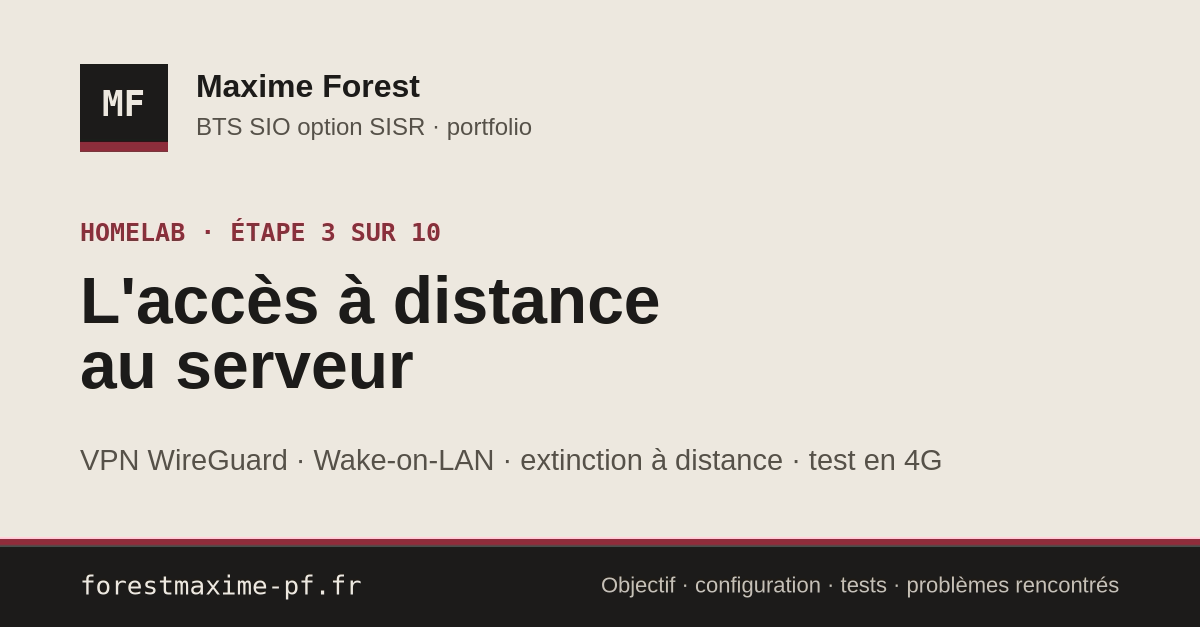
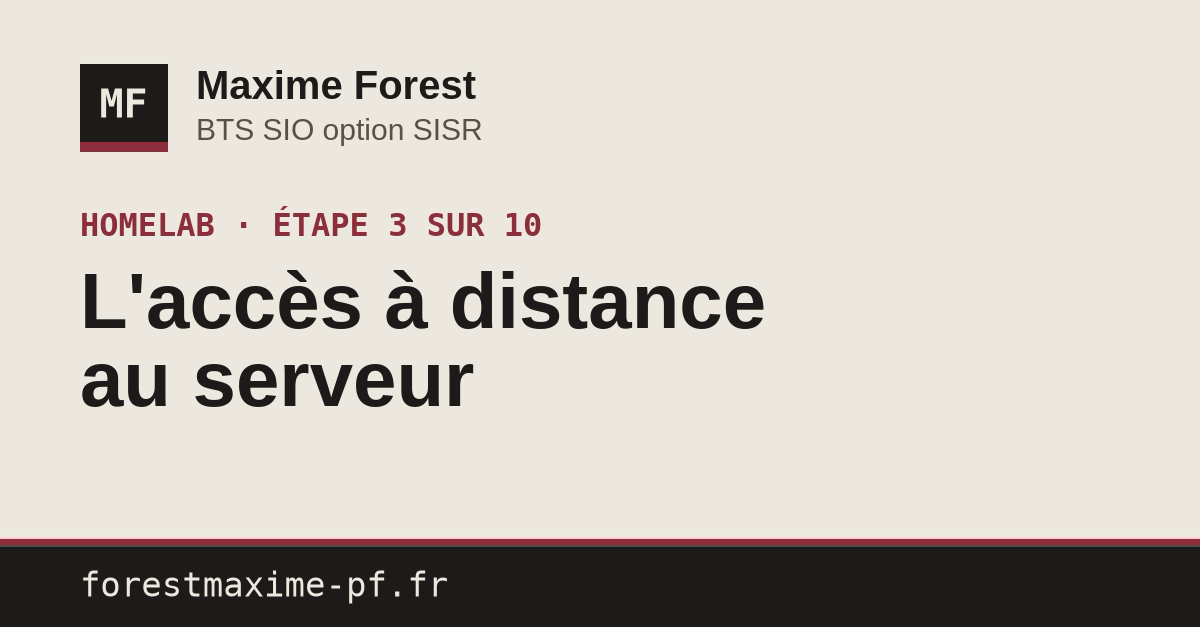
Images d'aperçu LinkedIn du homelab : texte agrandi pour rester lisible dans le fil, lignes trop petites retirées

diff --git a/projets/homelab-etape-4.html b/projets/homelab-etape-4.html
@@ -16,7 +16,7 @@
 <meta property="og:url" content="https://forestmaxime-pf.fr/projets/homelab-etape-4.html">
 <meta property="og:title" content="Homelab, étape 4 : l'audit DNS et courrier d'un nom de domaine | Maxime Forest">
 <meta property="og:description" content="Homelab, étape 4 : un script Python qui vérifie MX, SPF, DMARC, DKIM et DNSSEC d'un nom de domaine, avec des règles de couleur écrites et testées, et un résultat en JSON.">
-<meta property="og:image" content="https://forestmaxime-pf.fr/projets/img/apercu-homelab-etape-4.png">
+<meta property="og:image" content="https://forestmaxime-pf.fr/projets/img/apercu-homelab-etape-4.png?v=2">
 <meta property="og:image:width" content="1200">
 <meta property="og:image:height" content="627">
 <meta property="og:image:alt" content="Homelab, étape 4 : l'audit DNS et courrier d'un nom de domaine, sur le portfolio de Maxime Forest">

diff --git a/projets/homelab-etape-5.html b/projets/homelab-etape-5.html
@@ -16,7 +16,7 @@
 <meta property="og:url" content="https://forestmaxime-pf.fr/projets/homelab-etape-5.html">
 <meta property="og:title" content="Homelab, étape 5 : l'audit web d'un site | Maxime Forest">
 <meta property="og:description" content="Homelab, étape 5 : un script Python qui vérifie le HTTPS, les en-têtes de sécurité, l'expiration du nom de domaine et la disponibilité d'un site, en ne lisant que ce que voit un visiteur.">
-<meta property="og:image" content="https://forestmaxime-pf.fr/projets/img/apercu-homelab-etape-5.png">
+<meta property="og:image" content="https://forestmaxime-pf.fr/projets/img/apercu-homelab-etape-5.png?v=2">
 <meta property="og:image:width" content="1200">
 <meta property="og:image:height" content="627">
 <meta property="og:image:alt" content="Homelab, étape 5 : l'audit web d'un site, sur le portfolio de Maxime Forest">

diff --git a/projets/homelab-etape-3.html b/projets/homelab-etape-3.html
@@ -16,7 +16,7 @@
 <meta property="og:url" content="https://forestmaxime-pf.fr/projets/homelab-etape-3.html">
 <meta property="og:title" content="Homelab, étape 3 : l'accès à distance au serveur | Maxime Forest">
 <meta property="og:description" content="Homelab, étape 3 : VPN WireGuard de la Freebox, Wake-on-LAN et extinction à distance, pour travailler sur le serveur depuis la 4G sans l'exposer sur internet.">
-<meta property="og:image" content="https://forestmaxime-pf.fr/projets/img/apercu-homelab-etape-3.png">
+<meta property="og:image" content="https://forestmaxime-pf.fr/projets/img/apercu-homelab-etape-3.png?v=2">
 <meta property="og:image:width" content="1200">
 <meta property="og:image:height" content="627">
 <meta property="og:image:alt" content="Homelab, étape 3 : l'accès à distance au serveur, sur le portfolio de Maxime Forest">

diff --git a/projets/homelab-etape-1.html b/projets/homelab-etape-1.html
@@ -16,7 +16,7 @@
 <meta property="og:url" content="https://forestmaxime-pf.fr/projets/homelab-etape-1.html">
 <meta property="og:title" content="Homelab, étape 1 : installer Ubuntu Server | Maxime Forest">
 <meta property="og:description" content="Homelab, étape 1 : un ancien PC de jeu transformé en serveur Ubuntu Server 24.04, sans écran, administré à distance en SSH par clé seulement.">
-<meta property="og:image" content="https://forestmaxime-pf.fr/projets/img/apercu-homelab-etape-1.png">
+<meta property="og:image" content="https://forestmaxime-pf.fr/projets/img/apercu-homelab-etape-1.png?v=2">
 <meta property="og:image:width" content="1200">
 <meta property="og:image:height" content="627">
 <meta property="og:image:alt" content="Homelab, étape 1 : installer un serveur Ubuntu sur un ancien PC, sur le portfolio de Maxime Forest">

diff --git a/projets/homelab-etape-2.html b/projets/homelab-etape-2.html
@@ -16,7 +16,7 @@
 <meta property="og:url" content="https://forestmaxime-pf.fr/projets/homelab-etape-2.html">
 <meta property="og:title" content="Homelab, étape 2 : le socle logiciel | Maxime Forest">
 <meta property="og:description" content="Homelab, étape 2 : pare-feu ufw, mises à jour de sécurité automatiques, Docker, dépôt Git privé avec clé de déploiement et Claude Code sur le serveur Ubuntu.">
-<meta property="og:image" content="https://forestmaxime-pf.fr/projets/img/apercu-homelab-etape-2.png">
+<meta property="og:image" content="https://forestmaxime-pf.fr/projets/img/apercu-homelab-etape-2.png?v=2">
 <meta property="og:image:width" content="1200">
 <meta property="og:image:height" content="627">
 <meta property="og:image:alt" content="Homelab, étape 2 : le socle logiciel du serveur, sur le portfolio de Maxime Forest">

diff --git a/projets/homelab.html b/projets/homelab.html
@@ -16,7 +16,7 @@
 <meta property="og:url" content="https://forestmaxime-pf.fr/projets/homelab.html">
 <meta property="og:title" content="Homelab : un ancien PC devenu serveur | Maxime Forest">
 <meta property="og:description" content="Projet personnel en cours : un ancien PC de jeu transformé en serveur Ubuntu, pour construire un outil d&#x27;audit et de surveillance des sites de mes clients. Publié étape par étape.">
-<meta property="og:image" content="https://forestmaxime-pf.fr/projets/img/apercu-homelab.png">
+<meta property="og:image" content="https://forestmaxime-pf.fr/projets/img/apercu-homelab.png?v=2">
 <meta property="og:image:width" content="1200">
 <meta property="og:image:height" content="627">
 <meta property="og:image:alt" content="Homelab : un ancien PC de jeu devenu serveur, sur le portfolio de Maxime Forest">

diff --git a/_outils/apercu.py b/_outils/apercu.py
@@ -9,7 +9,7 @@ MONO='/usr/share/fonts/truetype/dejavu/DejaVuSansMono-Bold.ttf'
 MONOR='/usr/share/fonts/truetype/dejavu/DejaVuSansMono.ttf'
 pages={
  'homelab':("PROJET PERSONNEL · HOMELAB",["Un ancien PC de jeu","devenu serveur"],"Audit et surveillance des sites de mes clients, étape par étape"),
- 'homelab-etape-1':("HOMELAB · ÉTAPE 1 SUR 10",["Installer un serveur Ubuntu","sur un ancien PC"],"Ubuntu Server 24.04 · SSH par clé seulement · adresse fixe"),
+ 'homelab-etape-1':("HOMELAB · ÉTAPE 1 SUR 10",["Installer un serveur","Ubuntu sur un ancien PC"],"Ubuntu Server 24.04 · SSH par clé seulement · adresse fixe"),
  'homelab-etape-2':("HOMELAB · ÉTAPE 2 SUR 10",["Le socle logiciel","du serveur"],"Pare-feu ufw · mises à jour automatiques · Docker · Git privé"),
  'homelab-etape-3':("HOMELAB · ÉTAPE 3 SUR 10",["L'accès à distance","au serveur"],"VPN WireGuard · Wake-on-LAN · extinction à distance · test en 4G"),
  'homelab-etape-4':("HOMELAB · ÉTAPE 4 SUR 10",["L'audit DNS et courrier","d'un nom de domaine"],"MX · SPF · DMARC · DKIM · DNSSEC · 30 tests automatiques"),
@@ -20,16 +20,14 @@ def t(name,txt):
 for slug,(kick,title,sub) in pages.items():
     f=[ "drawbox=x=80:y=64:w=88:h=88:color=0x1f1d1b:t=fill",
         "drawbox=x=80:y=142:w=88:h=10:color=0x8e2f3c:t=fill",
-        f"drawtext=fontfile={MONO}:textfile={t(slug+'-mf','MF')}:fontsize=36:fontcolor=0xefe9df:x=124-text_w/2:y=103-text_h/2",
-        f"drawtext=fontfile={BOLD}:textfile={t(slug+'-nom','Maxime Forest')}:fontsize=32:fontcolor=0x1f1d1b:x=196:y=74",
-        f"drawtext=fontfile={SANS}:textfile={t(slug+'-sous','BTS SIO option SISR · portfolio')}:fontsize=24:fontcolor=0x57514b:x=196:y=118",
-        f"drawtext=fontfile={MONO}:textfile={t(slug+'-k',kick)}:fontsize=25:fontcolor=0x8e2f3c:x=80:y=218"]
-    y=274
+        f"drawtext=fontfile={MONO}:textfile={t(slug+'-mf','MF')}:fontsize=40:fontcolor=0xefe9df:x=124-text_w/2:y=103-text_h/2",
+        f"drawtext=fontfile={BOLD}:textfile={t(slug+'-nom','Maxime Forest')}:fontsize=40:fontcolor=0x1f1d1b:x=196:y=70",
+        f"drawtext=fontfile={SANS}:textfile={t(slug+'-sous','BTS SIO option SISR')}:fontsize=30:fontcolor=0x57514b:x=196:y=118",
+        f"drawtext=fontfile={MONO}:textfile={t(slug+'-k',kick)}:fontsize=32:fontcolor=0x8e2f3c:x=80:y=206"]
+    y=270
     for i,l in enumerate(title):
-        f.append(f"drawtext=fontfile={BOLD}:textfile={t(slug+f'-t{i}',l)}:fontsize=66:fontcolor=0x1f1d1b:x=80:y={y}"); y+=78
-    f.append(f"drawtext=fontfile={SANS}:textfile={t(slug+'-s',sub)}:fontsize=29:fontcolor=0x57514b:x=80:y={y+18}")
+        f.append(f"drawtext=fontfile={BOLD}:textfile={t(slug+f'-t{i}',l)}:fontsize=78:fontcolor=0x1f1d1b:x=80:y={y}"); y+=94
     f+=[ "drawbox=x=0:y=539:w=1200:h=8:color=0x8e2f3c:t=fill",
          "drawbox=x=0:y=547:w=1200:h=80:color=0x1f1d1b:t=fill",
-         f"drawtext=fontfile={MONOR}:textfile={t(slug+'-u','forestmaxime-pf.fr')}:fontsize=26:fontcolor=0xefe9df:x=80:y=587-text_h/2",
-         f"drawtext=fontfile={SANS}:textfile={t(slug+'-r','Objectif · configuration · tests · problèmes rencontrés')}:fontsize=22:fontcolor=0xc9c1b5:x=1120-text_w:y=587-text_h/2"]
+         f"drawtext=fontfile={MONOR}:textfile={t(slug+'-u','forestmaxime-pf.fr')}:fontsize=34:fontcolor=0xefe9df:x=80:y=587-text_h/2"]
     subprocess.run(["ffmpeg","-v","error","-y","-f","lavfi","-i","color=c=0xefe9df:s=1200x627","-frames:v","1","-vf",",".join(f),os.path.join(OUT,f"apercu-{slug}.png")],check=True)

diff --git a/CLAUDE.md b/CLAUDE.md
@@ -37,7 +37,7 @@ Les fiches d'étape du homelab sont rédigées dans `~/homelab/portfolio/` (fich
 ### Ajouter une étape du homelab (une fiche validée)
 
 1. Copier `projets/homelab-etape-2.html` en `projets/homelab-etape-N.html` et adapter : `<title>`, `description`, `canonical`, `og:*`, le kicker (« étape N sur 10 » et la date de validation), les `facts`, les tags, puis les 6 parties (objectif, schéma et technologies, configuration, tests réussis, problèmes rencontrés, ce que j'en retiens). Le schéma ASCII de la fiche va dans `<pre class="cmd schema" role="img" aria-label="…">`, avec une description du schéma dans `aria-label`.
-   Image d'aperçu LinkedIn : ajouter l'étape dans `_outils/apercu.py` (titre sur 2 lignes, sous-titre), lancer `python3 -I _outils/apercu.py <dossier-temporaire> projets/img`, regarder l'image, puis pointer `og:image` (avec `og:image:width`, `og:image:height`, `og:image:alt`) vers `projets/img/apercu-homelab-etape-N.png`.
+   Image d'aperçu LinkedIn : ajouter l'étape dans `_outils/apercu.py` (titre sur 2 lignes ; le sous-titre n'est plus affiché, trop petit dans LinkedIn), lancer `python3 -I _outils/apercu.py <dossier-temporaire> projets/img`, regarder l'image, puis pointer `og:image` (avec `og:image:width`, `og:image:height`, `og:image:alt`) vers `projets/img/apercu-homelab-etape-N.png`.
 2. Captures : `projets/img/homelab-etape-N-NN.webp`, numérotées dans l'ordre du tableau des tests (`<figure class="shot" id="fig-N">`, et la colonne « Preuve » renvoie vers `#fig-N`). Conversion avec `ffmpeg` : WebP sans perte pour les captures de terminal, avec perte (`-quality 88`) quand c'est plus léger (captures floutées, photos) ; réduire les captures de téléphone à environ 1 000 px de haut. Flouter par pixellisation, puis regarder le résultat avant de publier.
 3. `projets/homelab.html`, tableau `#etapes` : l'étape passe à `<span class="etat ok">Validée</span> le JJ/MM/AAAA` avec le lien « Lire la fiche », la suivante à `<span class="etat cours">En cours</span>` ; mettre à jour la ligne « Avancement » de l'en-tête.
 4. Navigation `pager` : la fiche N-1 reçoit un lien « Suivant » vers la fiche N ; la fiche N a « Précédent » vers la fiche N-1 et un `<span></span>` à droite.
